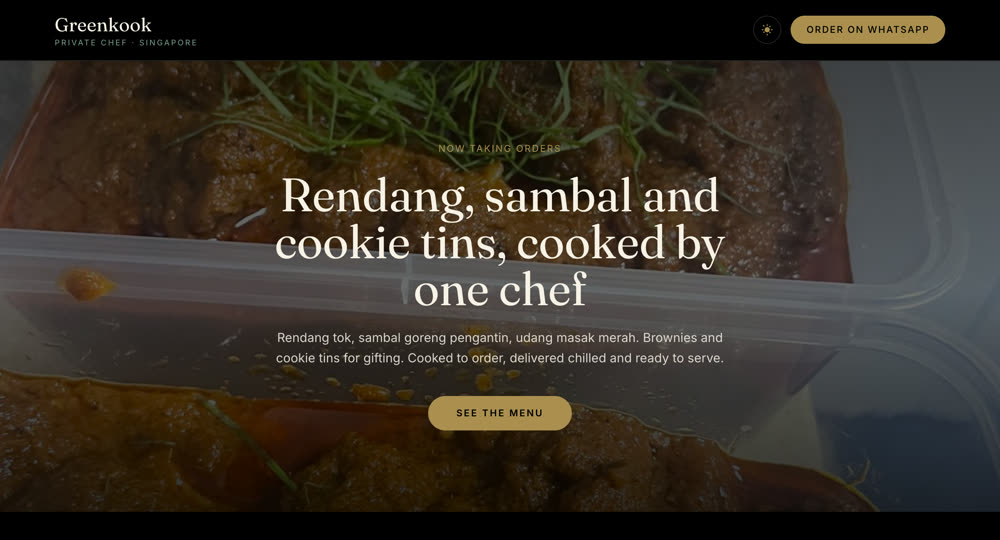
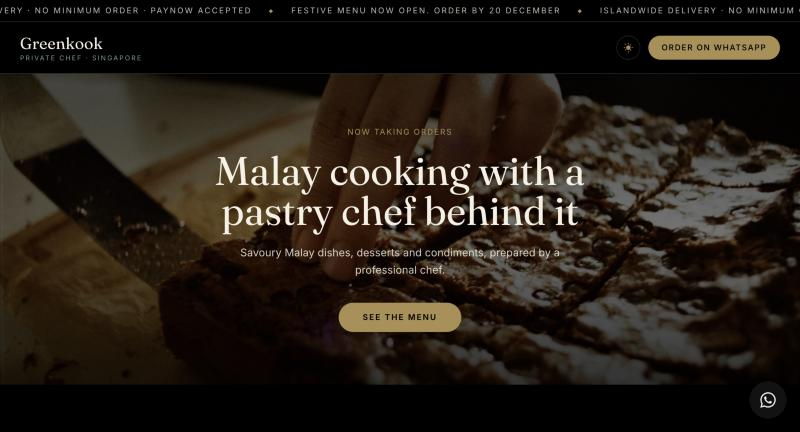
Update Greenkook: current cover, accurate write-up, link to the one-page menu

diff --git a/assets/js/site-config.js b/assets/js/site-config.js
@@ -99,7 +99,7 @@ const siteConfig = {
         "greenkook": {
             // NOTE: source repo is private, so no repo key and no repo button. Demo is the real live site.
             demo: "https://greenkook.pages.dev",
-            description: "A live ordering site for a real private chef in Singapore, serving Malay mains and bakes cooked to order. Customers browse the menu, tap Order, and WhatsApp opens with a short order form already typed out; the chef confirms the date and sends a PayNow number to lock it in. Prices stay on request until confirmed, and every dish, photo, and line of copy lives in one plain-English content file the chef can edit himself. Built with Next.js and Tailwind, exported as static files and hosted on Cloudflare Pages, so there is no server and no monthly software bill.",
+            description: "A live ordering site for a working private chef in Singapore, serving Malay mains and bakes cooked to order. Customers browse the menu and tap Order; WhatsApp opens with a short order form already filled in with the dish, date and delivery address, so the chef can confirm in one reply instead of asking five questions. A separate one-page menu at /pamphlet is built for forwarding, with a share button and a QR code, and prints clean on white. Printed QR codes carry per-channel tags, so orders arriving from a container-lid sticker can be told apart from word-of-mouth shares without any analytics or cookies. The chef can pause all ordering or block out busy dates, and dated banners delete themselves so nothing on the site goes stale. Every dish, price, label and WhatsApp message template lives in one commented content file; components hold no customer-facing text. Built with Next.js and Tailwind, exported to static files with self-hosted fonts and zero third-party requests, hosted free on Cloudflare Pages with no server and no renewals.",
         },
         "sesh": {
             demo: "demos/sesh/",

diff --git a/index.html b/index.html
@@ -669,6 +669,7 @@
                     </div>
                     <div class="project-links">
                         <a data-project-link="greenkook-demo" href="https://greenkook.pages.dev" target="_blank" rel="noopener noreferrer">View Live Site</a>
+                        <a href="https://greenkook.pages.dev/pamphlet" target="_blank" rel="noopener noreferrer">One-Page Menu</a>
                     </div>
                 </div>
             </div>
